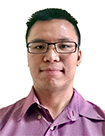
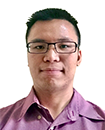
Update team members (#100)
* Update pastmembers.yml

* Update coremembers.yml

* Add team members

* change image dimensions

* resize images to 105 by 130

* reduce face size

* change face size

* change face size

* fix opengraph image tag

* remove white border at bottom

* remove border

Changed region(s): [[0.0, 0.0308, 1.0, 1.0]]

diff --git a/_includes/header.html b/_includes/header.html
@@ -9,7 +9,7 @@
   <!-- Facebook Open Graph -->
   <meta property="og:title" content="PowerPointLabs" />
   <meta property="og:type" content="website" />
-  <meta property="og:image" content="http://www.powerpointlabs.info/~pptlabs/img/install.png" />
+  <meta property="og:image" content="http://www.comp.nus.edu.sg/~pptlabs/img/install.png" />
   <meta property="og:url" content="http://www.powerpointlabs.info" />
   <meta property="og:description" content="PowerPoint, supercharged. A plugin for Microsoft PowerPoint that makes creating impressive presentations easy." />
 
